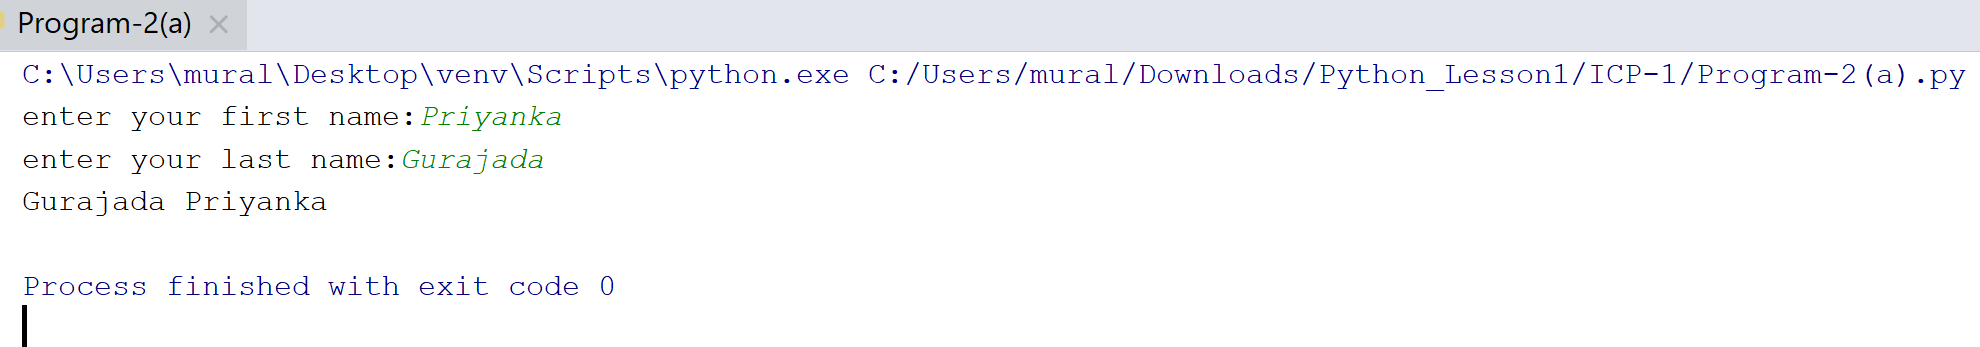
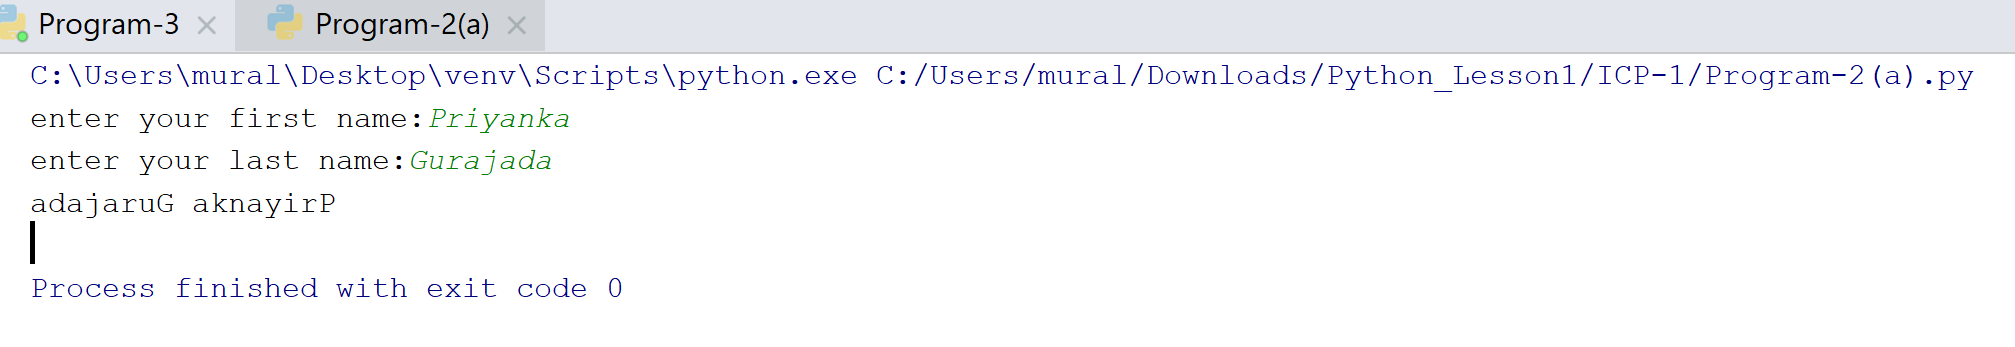
ICP-1

diff --git a/ICP-1/Source/ICP-1/Program-2(a).py b/ICP-1/Source/ICP-1/Program-2(a).py
@@ -8,13 +8,7 @@ name = [ ]
 #concatenating two variables
 full_name = first_name + ' ' + last_name
 
-#using split function
-name = full_name.split(' ')
-
 #using reverse function
-reverse_order = name[::-1]
+reverse_order = full_name[::-1]
 
-#using join function
-full_name = ' '.join(reverse_order)
-
-print(full_name)
+print(reverse_order)
